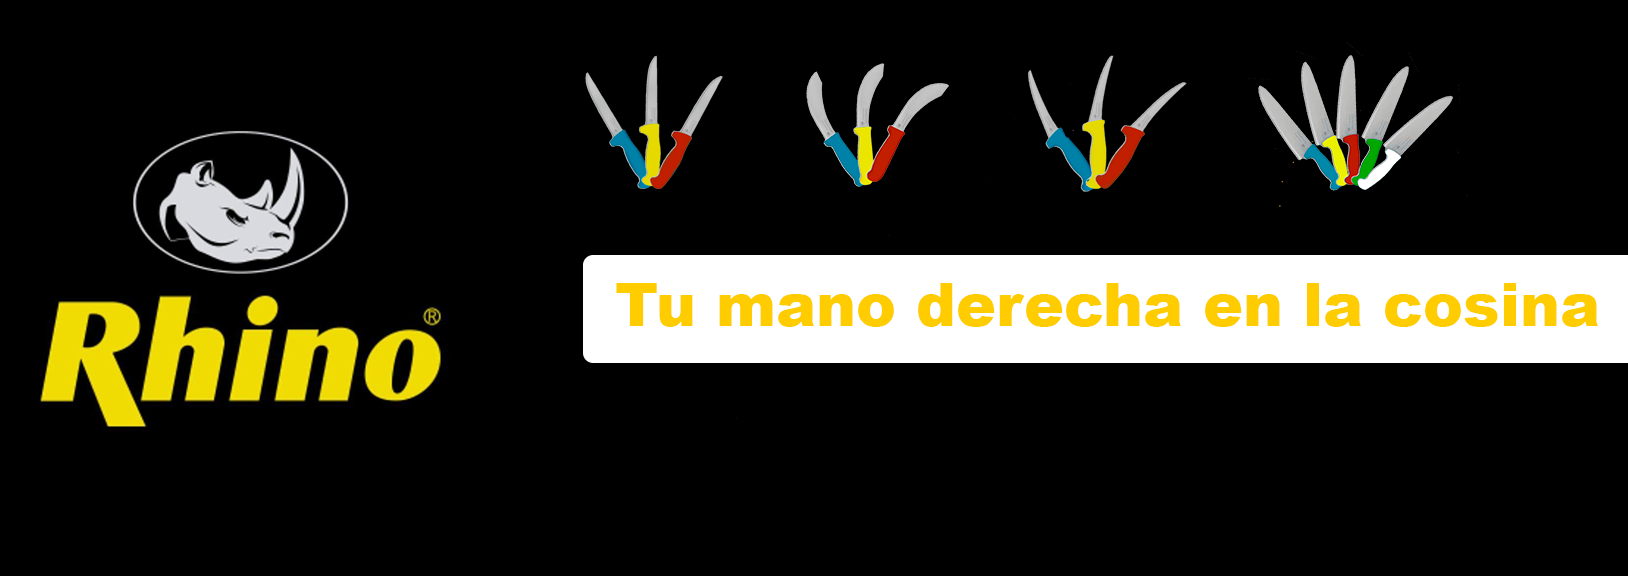
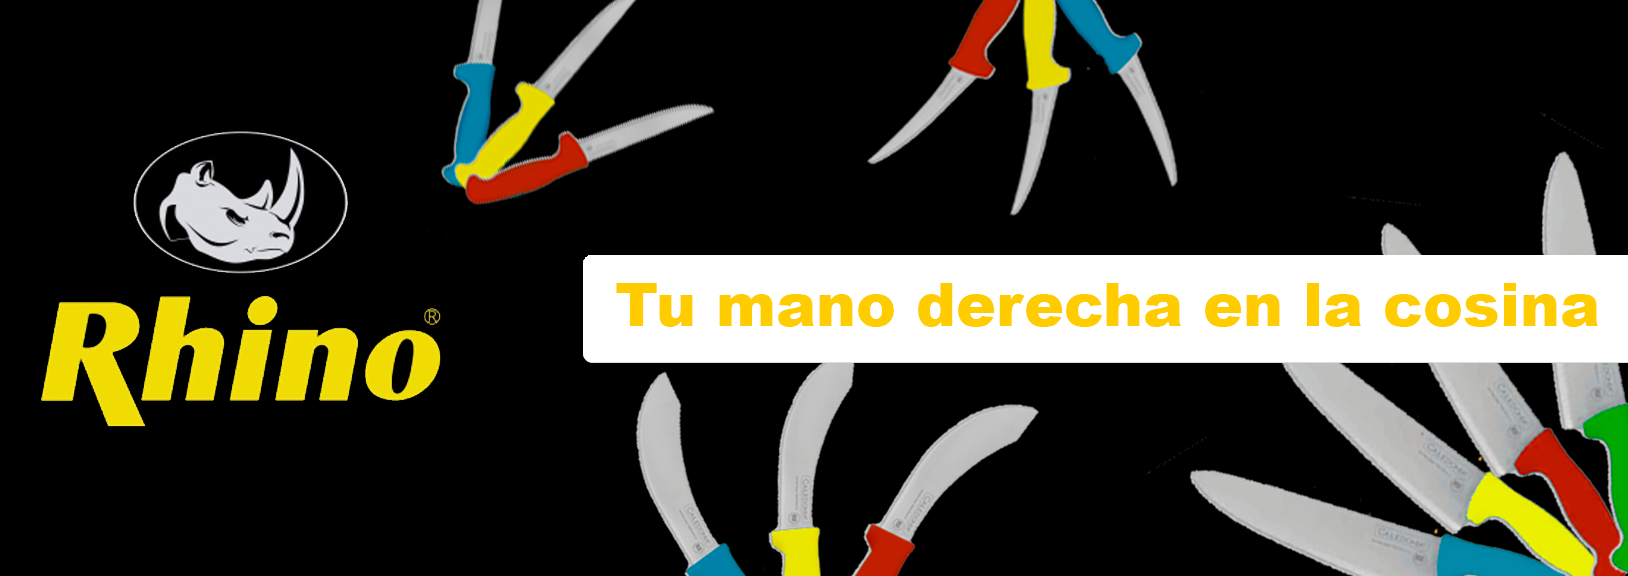
precios2

diff --git a/index.html b/index.html
@@ -118,7 +118,7 @@
                             <img src="Recursos/2.png" class="d-block w-100" alt="...">
                         </div>
                         <div class="carousel-item">
-                            <img src="Recursos/3.png" class="d-block w-100" alt="...">
+                            <img src="Recursos/baner1.png" class="d-block w-100" alt="...">
                         </div>
                     </div>
                         <button class="carousel-control-prev" type="button" data-bs-target="#carouselExample" data-bs-slide="prev">
